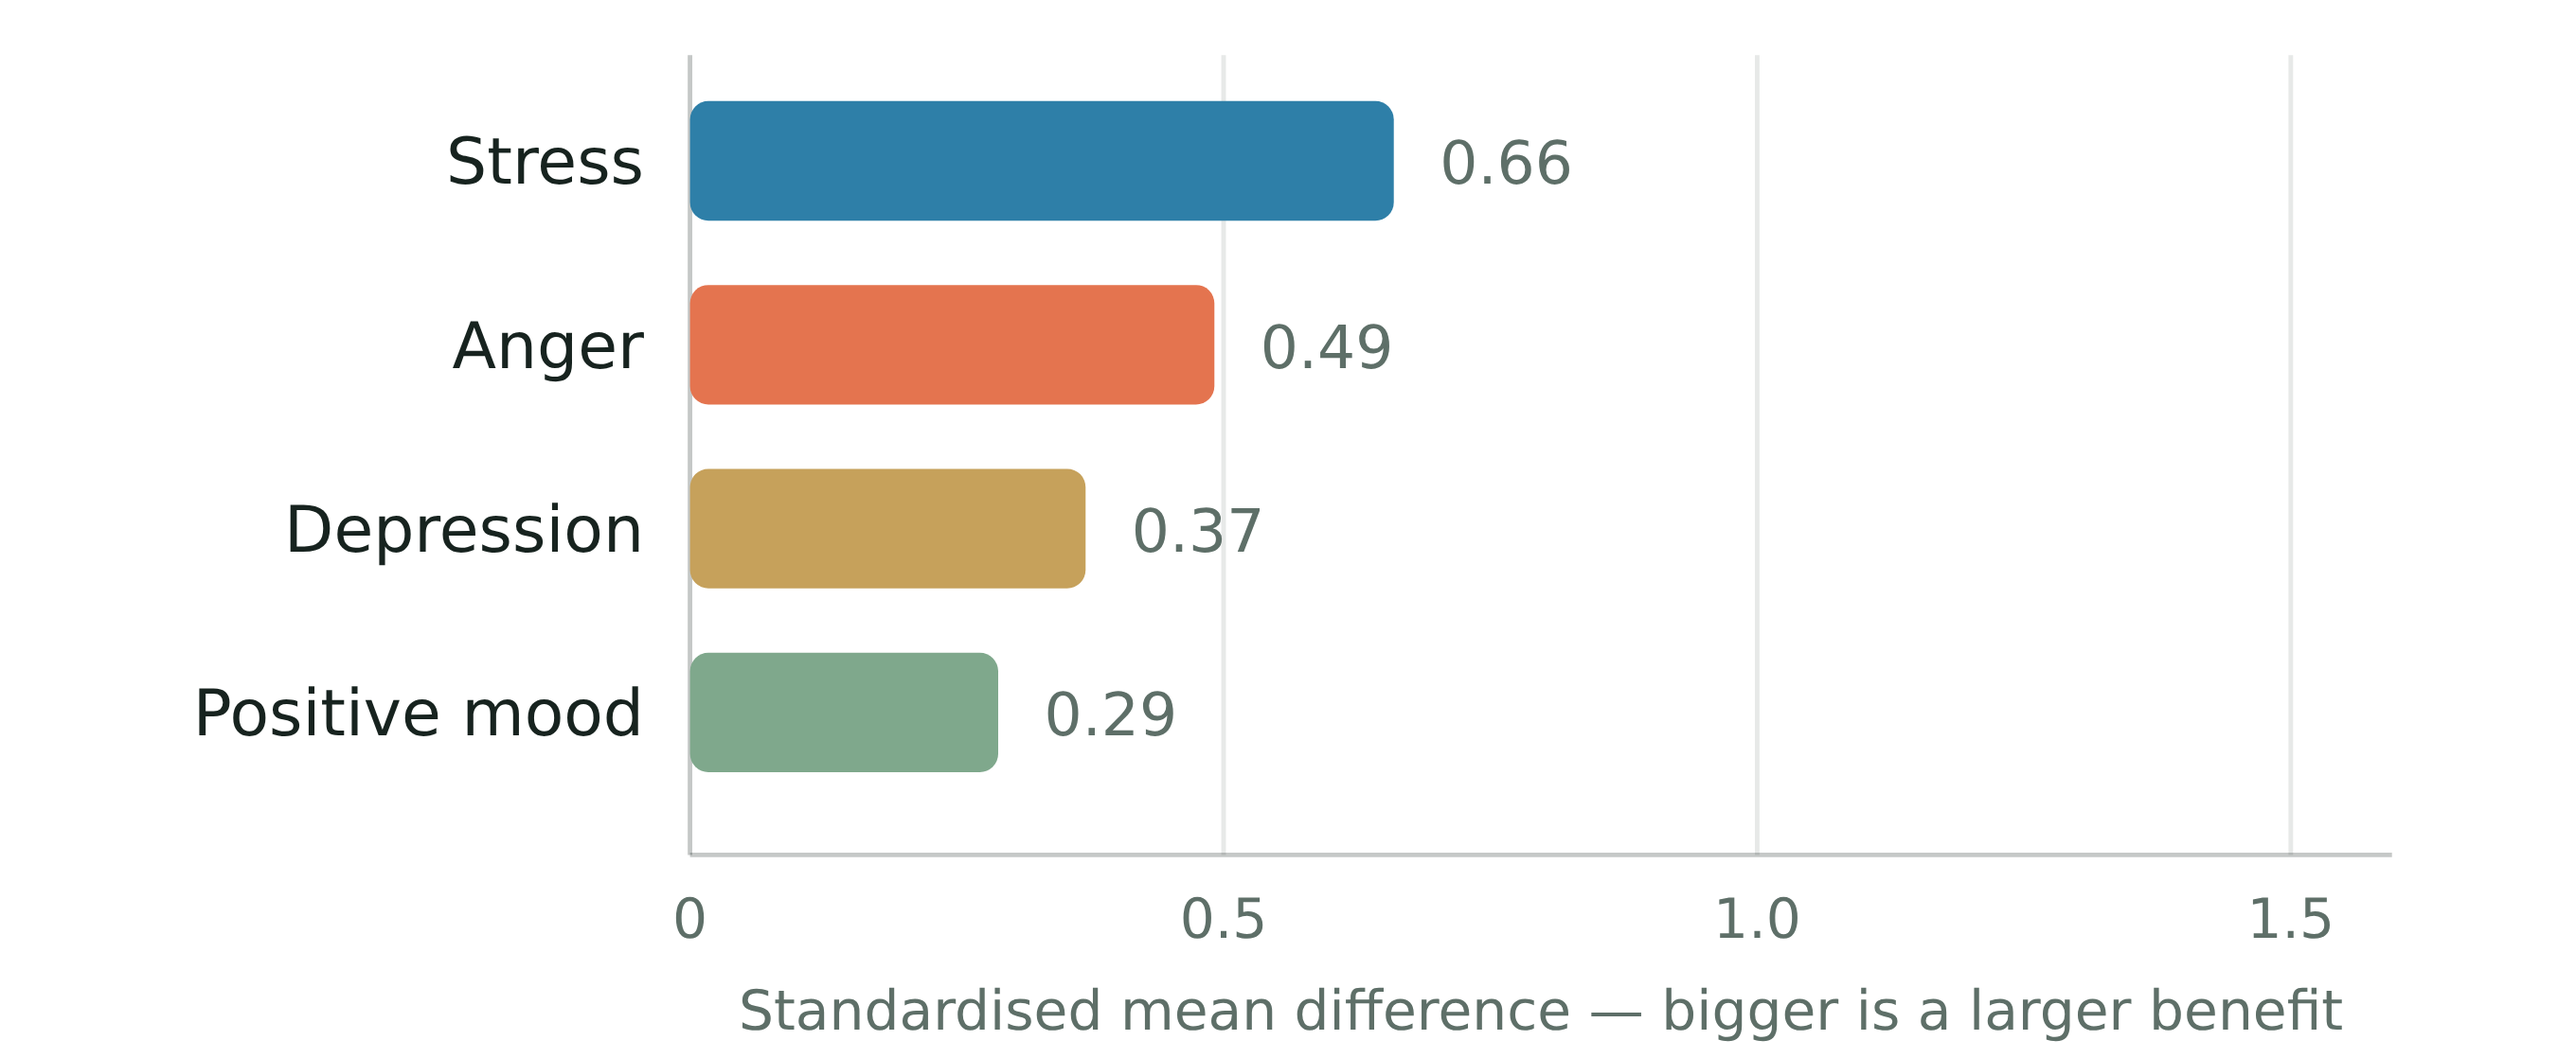
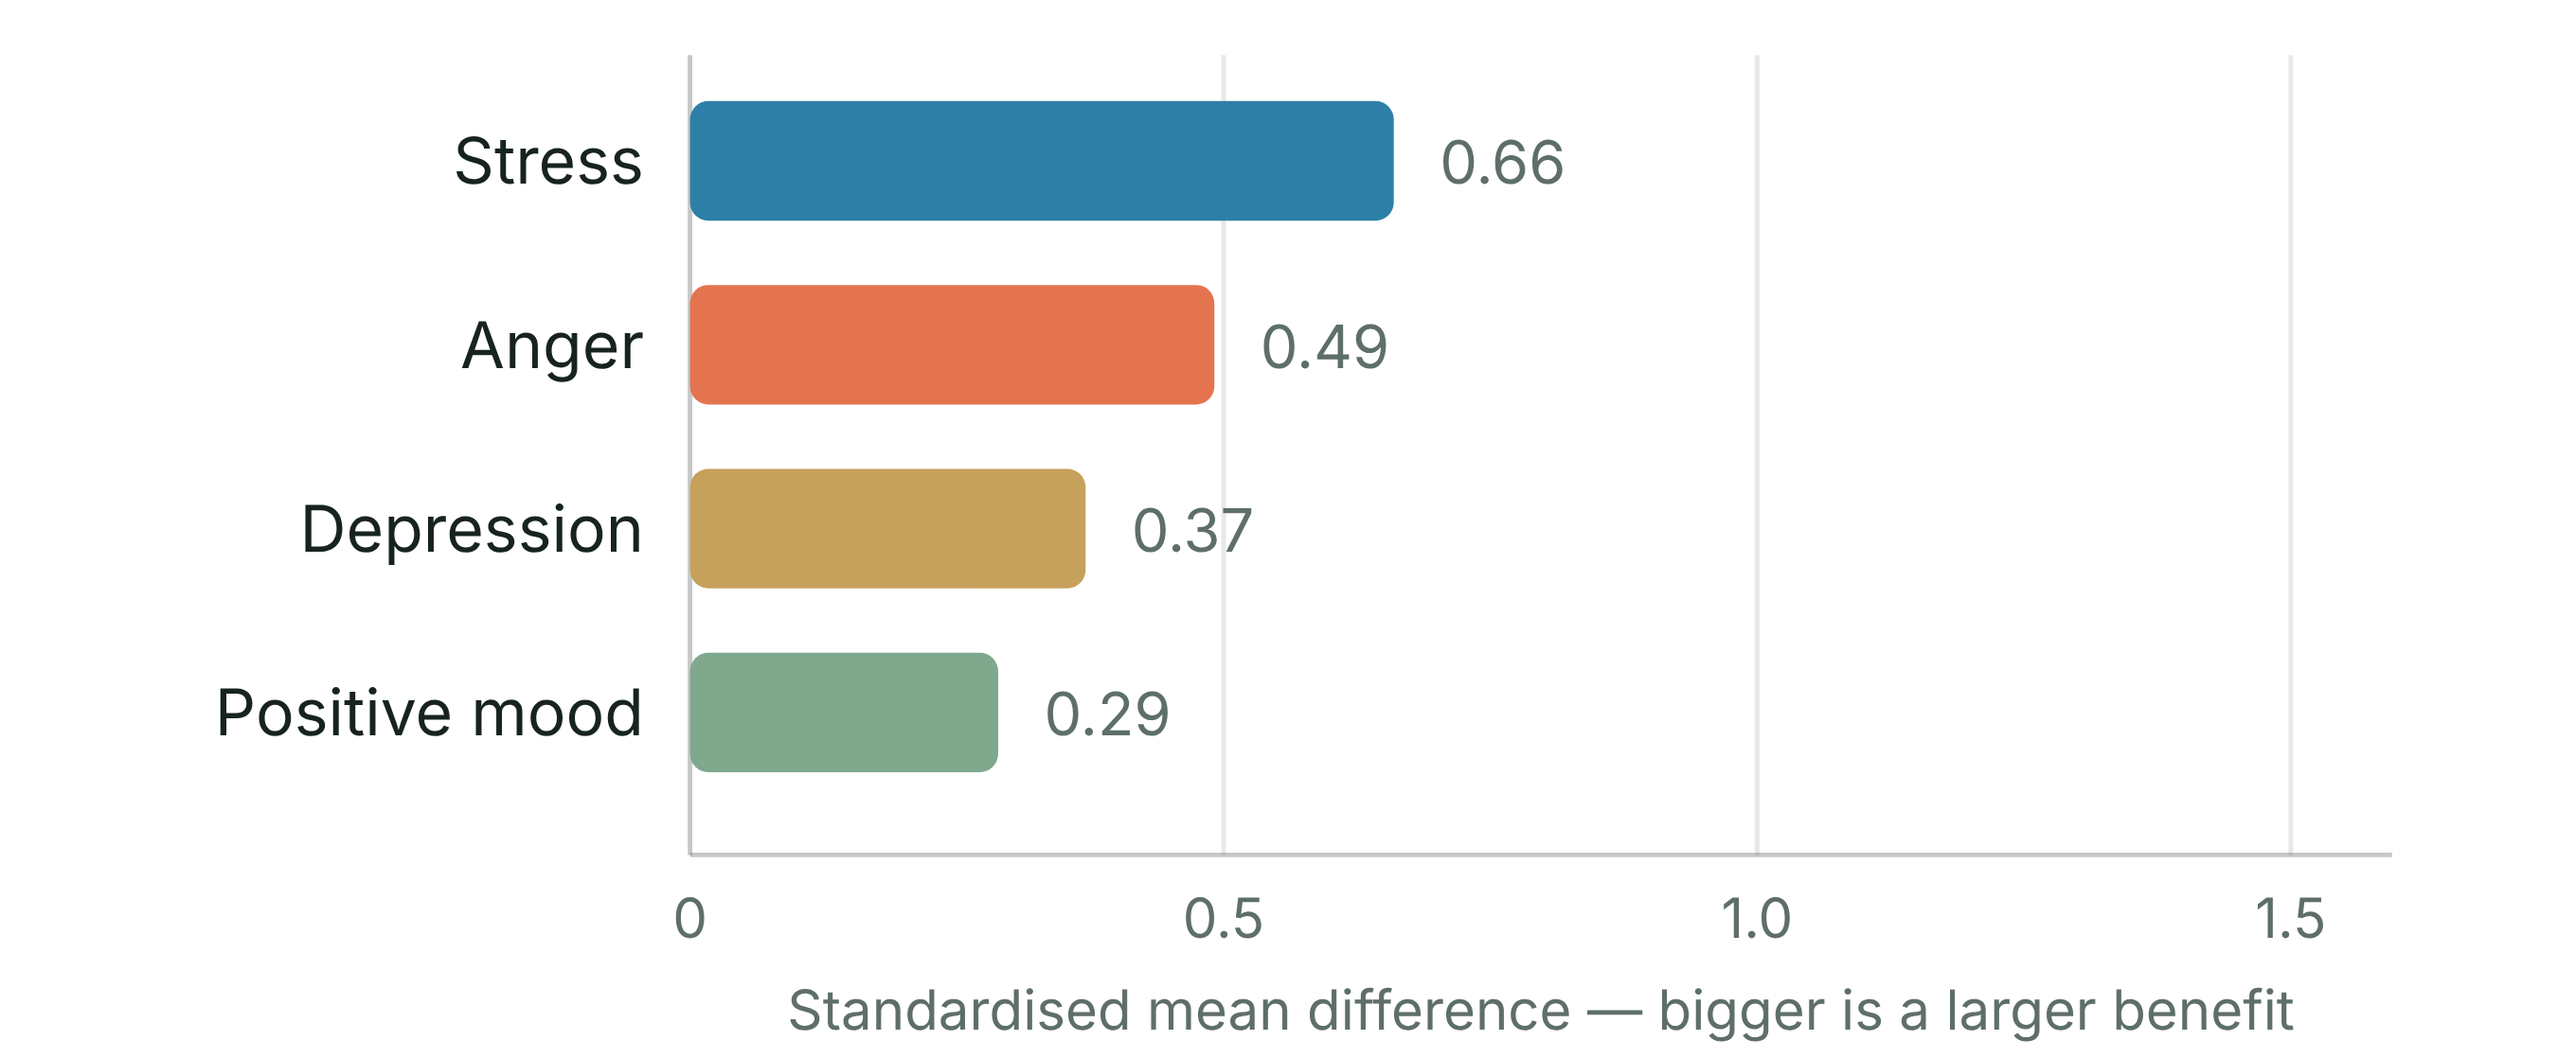
Fix two faults the first button run exposed
The run committed tools/__pycache__, and it re-rendered both figures into
slightly different bytes than this machine produced — fonts and
anti-aliasing differ per machine, so every press would have churned the
repo with meaningless image diffs.

Adds .gitignore, and caches figures against a hash of the SVG in
_substack/figures.json so an unchanged drawing is reused and an edited one
is still re-rendered. Also builds the article once per run instead of
twice, which was rendering every figure two times.

Claude-Session: https://claude.ai/code/session_01EijBEtDsPVJzsgFxtmp9SG

diff --git a/tools/substack_export.py b/tools/substack_export.py
@@ -66,10 +66,38 @@ def split_front_matter(text):
 
 # ---------------------------------------------------------------- SVG -> PNG
 
+CACHE = REPO / "_substack" / "figures.json"
+
+
+def _cache():
+    try:
+        import json
+        return json.loads(CACHE.read_text(encoding="utf-8"))
+    except Exception:                               # noqa: BLE001
+        return {}
+
+
+def _save_cache(c):
+    import json
+    CACHE.parent.mkdir(exist_ok=True)
+    CACHE.write_text(json.dumps(c, indent=2, sort_keys=True), encoding="utf-8")
+
+
 def render_svgs(body, slug):
-    """Replace each <figure> that contains an <svg> with a rendered PNG."""
+    """
+    Replace each <figure> that contains an <svg> with a rendered PNG.
+
+    Rendering is skipped when the drawing has not changed since last time.
+    Two machines never produce byte-identical PNGs from the same SVG — fonts
+    and anti-aliasing differ — so re-rendering every run would churn the repo
+    with meaningless image diffs. The cache keys on a hash of the SVG itself,
+    so an edited figure is still re-rendered.
+    """
+    import hashlib
+
     figures = re.findall(r"<figure\b.*?</figure>", body, re.S)
-    n = 0
+    cache, n = _cache(), 0
+
     for fig in figures:
         if "<svg" not in fig:
             continue
@@ -82,22 +110,37 @@ def render_svgs(body, slug):
         dest = IMG_DIR / name
         if not svg.lstrip().startswith("<svg xmlns"):
             svg = svg.replace("<svg", '<svg xmlns="http://www.w3.org/2000/svg"', 1)
+
+        digest = hashlib.sha1(svg.encode("utf-8")).hexdigest()[:12]
+        if cache.get(name) == digest and dest.exists():
+            print(f"  figure {n}: unchanged, kept img/{name}")
+            body = body.replace(fig, _fig_html(name, caption))
+            continue
+
         png_ok = svg_to_png(svg, dest)
+        if png_ok:
+            cache[name] = digest
 
         if png_ok:
-            replacement = (
-                f'<figure><img src="{SITE}/img/{name}" alt="{caption[:120]}" '
-                f'style="width:100%;max-width:680px">'
-                + (f"<figcaption>{caption}</figcaption>" if caption else "")
-                + "</figure>"
-            )
+            replacement = _fig_html(name, caption)
             print(f"  figure {n}: rendered -> img/{name}")
         else:
             # Never silently drop a figure: leave the caption as a note.
             replacement = f"<p><em>[Figure: {caption}]</em></p>" if caption else ""
             print(f"  figure {n}: RENDER FAILED, left a caption placeholder")
         body = body.replace(fig, replacement)
+
+    _save_cache(cache)
     return body
+
+
+def _fig_html(name, caption):
+    return (
+        f'<figure><img src="{SITE}/img/{name}" alt="{caption[:120]}" '
+        f'style="width:100%;max-width:680px">'
+        + (f"<figcaption>{caption}</figcaption>" if caption else "")
+        + "</figure>"
+    )
 
 
 def svg_to_png(svg, dest, width=1360):
@@ -204,8 +247,8 @@ def build(path, quiet=False):
     }
 
 
-def convert(path):
-    a = build(path)
+def write(a):
+    """Write the paste-ready file from an already-built article."""
     out = OUT_DIR / f"{a['path'].stem}.html"
     out.parent.mkdir(exist_ok=True)
     out.write_text(PAGE.format(
@@ -214,6 +257,10 @@ def convert(path):
     ), encoding="utf-8")
     print(f"  -> {out.relative_to(REPO)}\n")
     return out
+
+
+def convert(path):
+    return write(build(path))
 
 
 def esc(s):

diff --git a/tools/publish.py b/tools/publish.py
@@ -135,9 +135,9 @@ def kit_broadcast(a, send=False):
 
 # ------------------------------------------------------------------ substack
 
-def substack(post):
+def substack(a):
     try:
-        out = sx.convert(post)
+        out = sx.write(a)
         note("Substack", "todo",
              f"paste-ready file at {out.relative_to(REPO)} "
              f"(steps in _substack/README.md, about a minute)")
@@ -223,10 +223,12 @@ def main():
         post = latest_post()
         note("Website", "done", f"using latest post {post.name}")
 
-    a = sx.build(post, quiet=True)
+    # Build once: the figures are rendered and the markdown converted a single
+    # time, then reused by both the Substack file and the newsletter.
+    a = sx.build(post)
 
     if not args.skip_substack:
-        substack(post)
+        substack(a)
     if not args.skip_newsletter:
         kit_broadcast(a, send=args.send_newsletter)
     if not args.skip_instagram:
